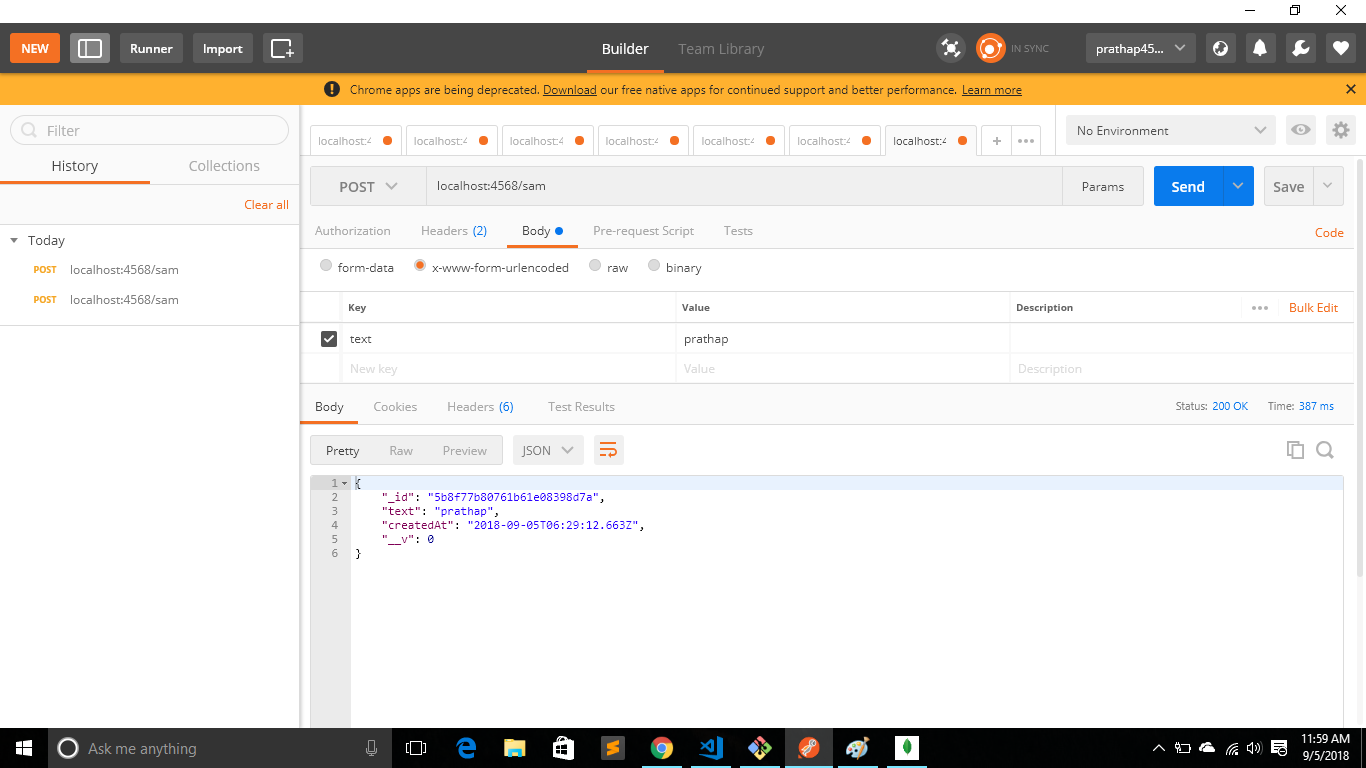
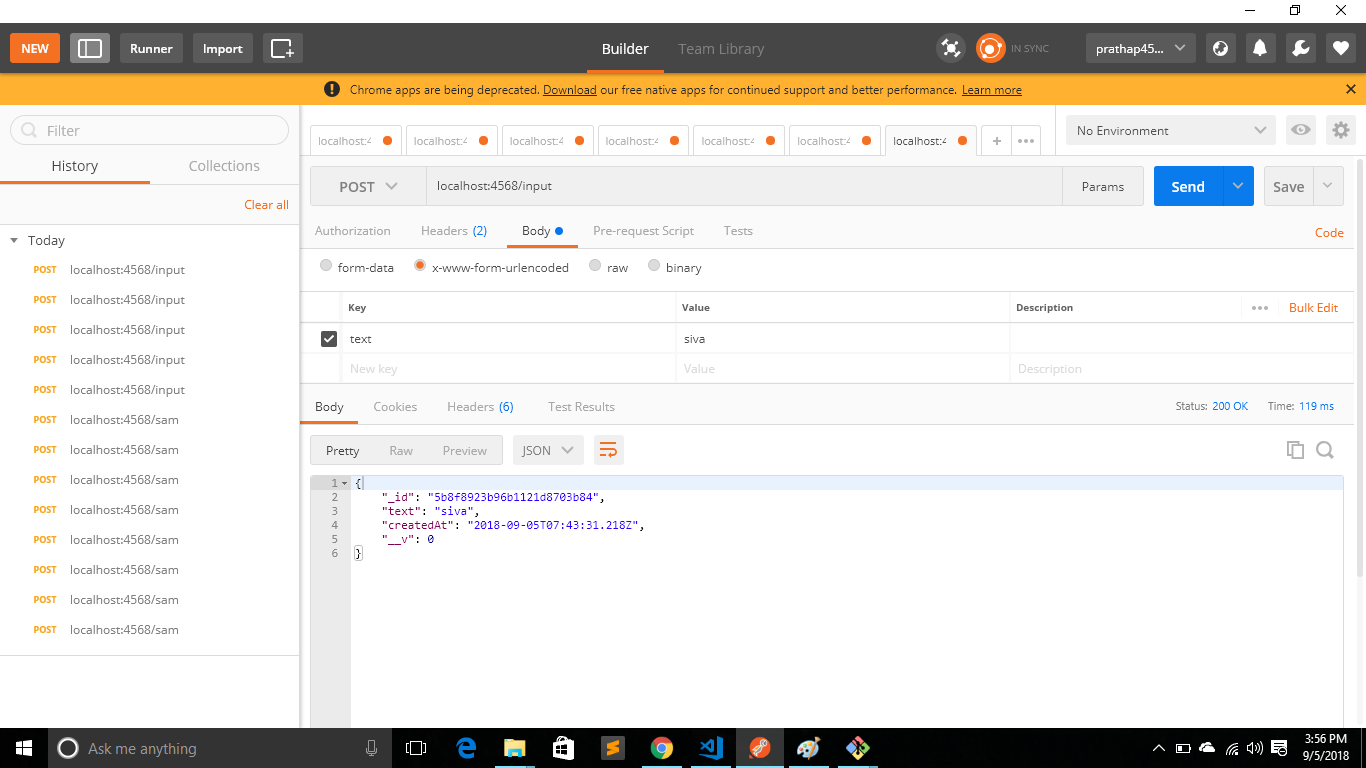
added the client-side application

diff --git a/app-client-console/src/app/app.component.html b/app-client-console/src/app/app.component.html
@@ -1,20 +1,1 @@
-<!--The content below is only a placeholder and can be replaced.-->
-<div style="text-align:center">
-  <h1>
-    Welcome to {{ title }}!
-  </h1>
[1 lines of base64/hex data omitted]
-</div>
-<h2>Here are some links to help you start: </h2>
-<ul>
-  <li>
-    <h2><a target="_blank" rel="noopener" href="https://angular.io/tutorial">Tour of Heroes</a></h2>
-  </li>
-  <li>
-    <h2><a target="_blank" rel="noopener" href="https://github.com/angular/angular-cli/wiki">CLI Documentation</a></h2>
-  </li>
-  <li>
-    <h2><a target="_blank" rel="noopener" href="https://blog.angular.io/">Angular blog</a></h2>
-  </li>
-</ul>
-
+<app-input></app-input>

diff --git a/app-client-console/src/app/app.module.ts b/app-client-console/src/app/app.module.ts
@@ -1,16 +1,26 @@
 import { BrowserModule } from '@angular/platform-browser';
 import { NgModule } from '@angular/core';
+import { HttpClientModule } from '@angular/common/http';
+import { FormsModule } from '@angular/forms';
+
+import { AppService } from './services/app.service';
 
 import { AppComponent } from './app.component';
+import { InputComponent } from './input/input.component';
 
 @NgModule({
   declarations: [
-    AppComponent
+    AppComponent,
+    InputComponent
   ],
   imports: [
-    BrowserModule
+    BrowserModule,
+    FormsModule,
+    HttpClientModule
   ],
-  providers: [],
+  providers: [
+    AppService
+  ],
   bootstrap: [AppComponent]
 })
 export class AppModule { }

diff --git a/app-client-console/src/app/input/input.component.html b/app-client-console/src/app/input/input.component.html
@@ -1,0 +1,16 @@
+<div class="container-fluid margintop"> 
+    <h1 class="text-center">ROT App</h1>
+    <div class="row justify-content-center mt-5">
+      <div class="col-md-4">
+        <form #inputForm="ngForm" (ngSubmit)="addAdUnit(inputForm)">
+          <div class="form-group">
+            <label for="text"><b>Text Input</b></label>
+            <input id="text" type="text" class="form-control" placeholder="enter some text here" name="text" ngModel>
+          </div>
+          <div class="form-group">
+            <button type="submit" class="btn btn-primary col-md-12">Submit</button>
+          </div>
+        </form>
+      </div>
+    </div>
+  </div>

diff --git a/app-client-console/src/app/input/input.component.spec.ts b/app-client-console/src/app/input/input.component.spec.ts
@@ -1,0 +1,25 @@
+import { async, ComponentFixture, TestBed } from '@angular/core/testing';
+
+import { InputComponent } from './input.component';
+
+describe('InputComponent', () => {
+  let component: InputComponent;
+  let fixture: ComponentFixture<InputComponent>;
+
+  beforeEach(async(() => {
+    TestBed.configureTestingModule({
+      declarations: [ InputComponent ]
+    })
+    .compileComponents();
+  }));
+
+  beforeEach(() => {
+    fixture = TestBed.createComponent(InputComponent);
+    component = fixture.componentInstance;
+    fixture.detectChanges();
+  });
+
+  it('should create', () => {
+    expect(component).toBeTruthy();
+  });
+});

diff --git a/app-server/index.js b/app-server/index.js
@@ -6,14 +6,14 @@ const cors = require('cors');
 const app = express();
 //created the port number
 const port = process.env.PORT || 4568;
+//models imported here
+const db = require('./models');
+const { Data } = require('./models');
 // parsing the data with middleware bodyParser
 app.use(bodyParser.urlencoded({extended: true}));
 app.use(bodyParser.json());
 //cors(cross origin resourse sharing)
 app.use(cors());
-//models imported here
-const db = require('./models');
-const { Data } = require('./models');
 //routes here
 app.post('/input',(req,res)=>{
     const { text } = req.body;

diff --git a/app-client-console/src/app/services/app.service.ts b/app-client-console/src/app/services/app.service.ts
@@ -1,0 +1,26 @@
+import { Injectable } from '@angular/core';
+import { HttpClient } from '@angular/common/http';
+
+@Injectable({
+  providedIn: 'root'
+})
+export class AppService {
+
+  uri = 'http://localhost:4568/';
+
+  constructor(
+    private http: HttpClient
+  ) { }
+  addAdUnit(data) {
+    this
+    .http
+    .post(`${this.uri}input`, data)
+        .subscribe(( res: any) => {
+          if (data) {
+            alert('successfully sent');
+          } else {
+            console.log('error');
+          }
+        });
+  }
+}

diff --git a/app-client-console/src/app/input/input.component.ts b/app-client-console/src/app/input/input.component.ts
@@ -1,0 +1,23 @@
+import { Component, OnInit } from '@angular/core';
+import { AppService } from '../services/app.service';
+
+@Component({
+  selector: 'app-input',
+  templateUrl: './input.component.html',
+  styleUrls: ['./input.component.css']
+})
+export class InputComponent implements OnInit {
+
+  constructor(
+    private adunitservice: AppService,
+  ) { }
+
+  addAdUnit(data) {
+    this
+    .adunitservice
+    .addAdUnit(data.value);
+}
+  ngOnInit() {
+  }
+
+}

diff --git a/app-client-console/src/app/services/app.service.spec.ts b/app-client-console/src/app/services/app.service.spec.ts
@@ -1,0 +1,15 @@
+import { TestBed, inject } from '@angular/core/testing';
+
+import { AppService } from './app.service';
+
+describe('AppService', () => {
+  beforeEach(() => {
+    TestBed.configureTestingModule({
+      providers: [AppService]
+    });
+  });
+
+  it('should be created', inject([AppService], (service: AppService) => {
+    expect(service).toBeTruthy();
+  }));
+});

diff --git a/app-client-console/src/styles.css b/app-client-console/src/styles.css
@@ -1,1 +1,2 @@
 /* You can add global styles to this file, and also import other style files */
+@import "~bootstrap/dist/css/bootstrap.min.css"

diff --git a/app-client-console/src/app/input/input.component.css b/app-client-console/src/app/input/input.component.css
@@ -1,0 +1,3 @@
+.margintop {
+    margin-top: 8%;
+}

diff --git a/README.md b/README.md
@@ -1,5 +1,5 @@
-# Abide App 
-> The request which comes from the client-side(angular) will be stored in a MongoDB with at a certain limit of time, data in a DB will be erased (with mongoDB TTl).
+# ROT(running outoff time) App 
+> The request which comes from the client-side(angular) will be stored in a MongoDB with at a certain limit of time, data in a DB will be erased (with mongoDB TTL).
 ### Technologies used :-
  - Node JS  - server side
  - Mongo DB - Backend
